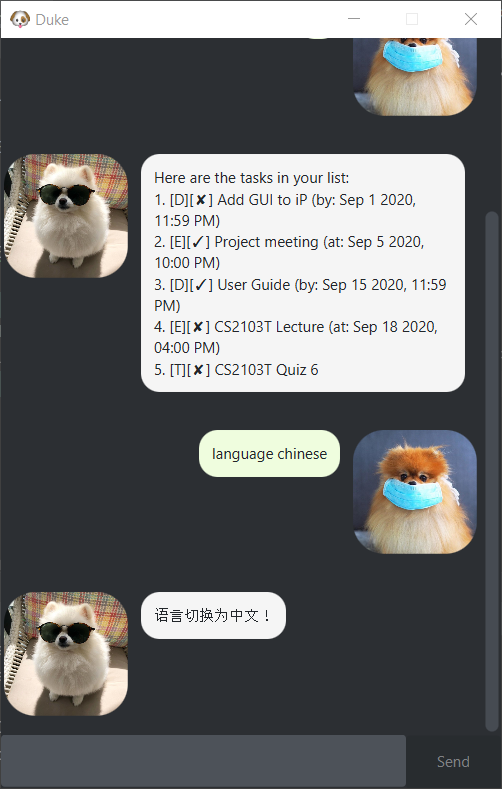
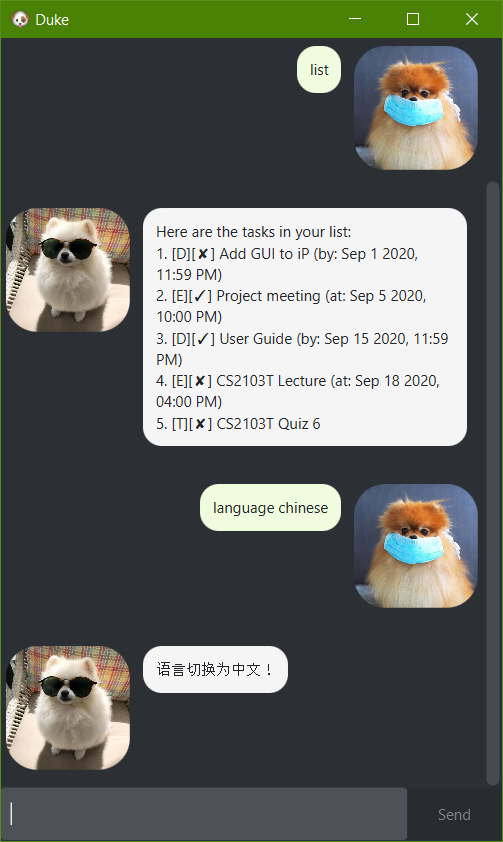
Improve user guide (#61)
* Update user guide introduction

* Update Ui.png

* Add drop shadows to images

* Add user guide features

diff --git a/docs/assets/css/style.css b/docs/assets/css/style.css
@@ -1,0 +1,14 @@
+.portrait-image-container {
+    width: 50%;
+    margin: auto;
+}
+
+.landscape-image-container {
+    width: 90%;
+    margin: auto;
+}
+
+.image {
+    box-shadow: 0 4px 8px 0 rgba(0, 0, 0, 0.2), 0 6px 20px 0 rgba(0, 0, 0, 0.19);
+    padding: 0;
+}

diff --git a/docs/README.md b/docs/README.md
@@ -1,17 +1,96 @@
-# User Guide
+<link rel="stylesheet" type="text/css" media="all" href="assets/css/style.css" />
 
-![Duke](Ui.png)
+# Duke | User Guide
 
-Welcome to Duke, the task manager application for command line interface (CLI) lovers!
+<div class="portrait-image-container">
+    <img class="image" src="Ui.png" alt="User Interface of Duke">
+</div>
+
+Duke is a *Personal Assistant Chatbot* with task management functionality that caters to fast typists.
+Keep track of all your tasks with ease!
 
 ## Features
 
 ### Manage Your Tasks
 
 To best cater to your task management needs, Duke supports the creation of three different types of tasks:
-- Events
-- ToDos
 - Deadlines
+- Events
+- Todos
+
+#### Deadlines
+
+Deadlines are tasks that have to be completed by a specific date and time.
+
+#### Events
+
+Events are tasks that occur at a specific date and time.
+
+#### Todos
+
+Todos are tasks that do not have a specific date and time attached to them.
+
+All of the above tasks track whether they have been completed.
+In addition, for deadline and event tasks, Duke is able to filter by overdue and upcoming tasks.
+
+### Theming
+
+Duke sports a dark theme that is gentle on the eyes.
+This allows for prolonged usage of Duke without having to worry about eye strain.
+
+<div class="landscape-image-container">
+  <img class="image" src="assets/media/fullscreen.png" alt="Resizable window">
+</div>
+
+It is also possible to resize Duke if you wish to make better use of your screen real estate.
+
+### Command History
+
+<div class="portrait-image-container">
+    <img class="image" src="assets/media/command_history.gif" alt="Cycling of command history">
+</div>
+
+The Duke graphical user interface has an in-built command history which remembers the last 50 commands.
+Just like in any other terminal, you can navigate through your previous inputs by pressing the `up` and `down` key.
+
+### Command Line Support
+
+<div class="landscape-image-container">
+  <img class="image" src="assets/media/command_line_interface.png" alt="Command line interface mode">
+</div>
+
+For users who have a strong preference for command line interfaces (CLI) over graphical user interfaces, Duke is able to run in CLI mode.
+Simply launch the `.jar` file with the `-c` or `--console` flag:
+
+```
+java -jar duke.jar --console
+```
+
+### Mandarin Chinese Support
+
+<div class="portrait-image-container">
+    <img class="image" src="assets/media/mandarin_support.png" alt="Mandarin support">
+</div>
+
+Duke has been designed from the ground up for i18n.
+All user-facing strings are set in a resource file, making the task of supporting a new language simply a matter of adding the translated strings.
+In addition, Duke utilises UTF-8 encoding, allowing non-latin characters to be stored without issue.
+
+Currently, Duke supports the following languages:
+- English (en)
+- Chinese (zh)
+
+Switching between languages is as easy as calling the `language` command:
+
+```
+language chinese
+```
+
+Note that the language names can be substituted with the ISO 639-1 language codes as well:
+
+```
+language zh
+```
 
 ## Usage
 
